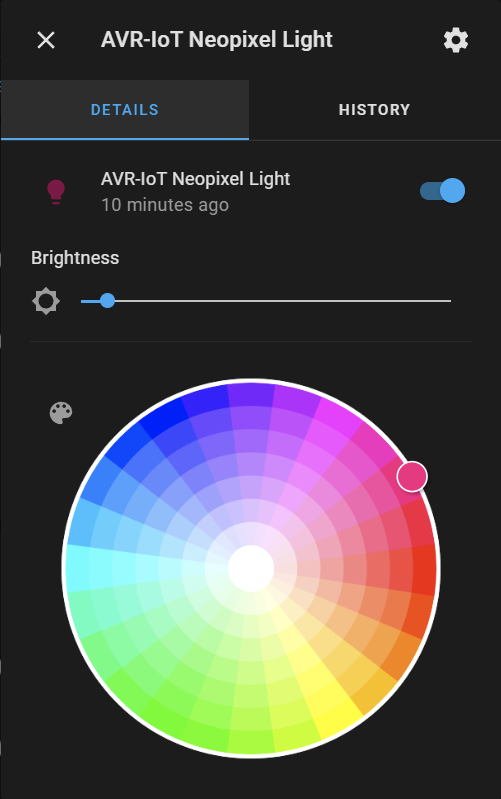
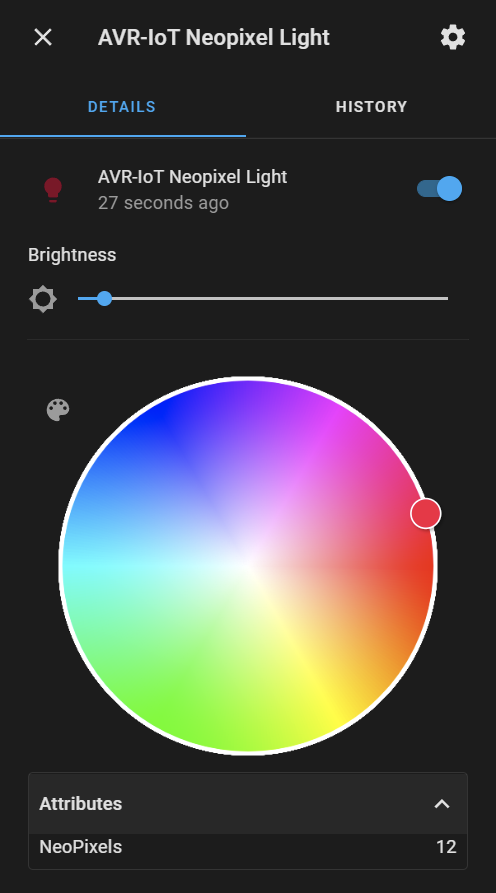
Attributes - Number of NeoPixels

diff --git a/AVRIoT.X/main.c b/AVRIoT.X/main.c
@@ -49,12 +49,14 @@
 #define TOPIC_HA_LIGHT_STATE_ADDCID(extra_id)			HA_TOPIC_ADDCID("light") extra_id "/state"
 #define TOPIC_HA_LIGHT_COMMAND_ADDCID(extra_id)			HA_TOPIC_ADDCID("light") extra_id "/set"
 #define TOPIC_HA_LIGHT_CONFIG_ADDCID(extra_id)			HA_TOPIC_ADDCID("light") extra_id "/config"
+#define TOPIC_HA_LIGHT_ATTRIBUTES_ADDCID(extra_id)		HA_TOPIC_ADDCID("light") extra_id "/attr"
 
 #define CONFIG_HA(content)								"{" content "}"
 #define CONFIG_HA_PREFIX_ADDCID(type)					"\"~\": \"" HA_TOPIC_ADDCID(type) "\""
 #define CONFIG_HA_ID_ADDCID(name)						"\"uniq_id\":\"" name "%s\",\"obj_id\":\"" name "%s\""
 #define CONFIG_HA_STATE(extra_id)						"\"stat_t\":\"~" extra_id "/state\""
 #define CONFIG_HA_COMMAND(extra_id)						"\"cmd_t\":\"~" extra_id "/set\""
+#define CONFIG_HA_ATTRIBUTES(extra_id)					"\"json_attr_t\":\"~" extra_id "/attr\""
 #define CONFIG_HA_ICON_MDI(name)						"\"icon\":\"mdi:" name "\""
 #define NEXTCFG 										","
 
@@ -68,7 +70,6 @@
 														NEXTCFG "\"g_tpl\":\"{{ value.split(',')[2].split('-')[1] }}\"" \
 														NEXTCFG "\"b_tpl\":\"{{ value.split(',')[2].split('-')[2] }}\""
 
-
 #define CONFIG_HA_DEVICE(content)						"\"dev\":{"content"}"
 #define CONFIG_HA_DEVICE_IDENTIFIERS(content)			"\"ids\":"content
 #define CONFIG_HA_DEVICE_NAME(name)						"\"name\":\""name"\""
@@ -81,7 +82,7 @@
 														NEXTCFG CONFIG_HA_DEVICE_NAME("AVR-IoT") \
 														NEXTCFG CONFIG_HA_DEVICE_MANUFACTURER("Microchip Technology") \
 														NEXTCFG CONFIG_HA_DEVICE_MODEL("AVR-IoT Neopixel Light") \
-														NEXTCFG CONFIG_HA_DEVICE_SW_VERSION("7.0.0"))
+														NEXTCFG CONFIG_HA_DEVICE_SW_VERSION("7.1.0"))
 
 static char mqttSubscribeTopic[NUM_TOPICS_SUBSCRIBE][SUBSCRIBE_TOPIC_SIZE];
 static char mqttPublishTopic[PUBLISH_TOPIC_SIZE];
@@ -100,13 +101,15 @@ typedef struct control_struct {
 static control_t control = {
 	.changed = 3,
 	.on = false,
-	.brightness = 50,
+	.brightness = 20,
 	.red = 200,
 	.green = 0,
 	.blue =	55
 };
 
 static color_t lights = {{0}};
+static uint16_t prev_num_leds = 0;
+
 void update_led_config(void);
 
 int main(void)
@@ -159,6 +162,7 @@ void sendToCloud(void)
 										NEXTCFG CONFIG_HA_ID_ADDCID("neopixel_") // 2x %s = eeprom->mqttCID
 										NEXTCFG CONFIG_HA_STATE() 
 										NEXTCFG CONFIG_HA_COMMAND()
+										NEXTCFG CONFIG_HA_ATTRIBUTES()
 										NEXTCFG CONFIG_HA_LIGHT_TEMPLATES
 										NEXTCFG CONFIG_HA_THIS_DEVICE), // %s = eeprom->mqttCID
 									eeprom->mqttCID,
@@ -184,6 +188,11 @@ void sendToCloud(void)
 			} else {
 				len = sprintf(json, "off");
 			}
+		} else if (eeprom->num_leds != prev_num_leds) { // Update attributes (Number of NeoPixels)
+			sprintf(mqttPublishTopic, TOPIC_HA_LIGHT_ATTRIBUTES_ADDCID(), eeprom->mqttCID); // Can optimize this a lot if never changing CID
+			len = sprintf(json,"{\"NeoPixels\":%d}", eeprom->num_leds);
+			prev_num_leds = eeprom->num_leds;
+			control.changed |= 1;
 		}
 
 		if (len) {
